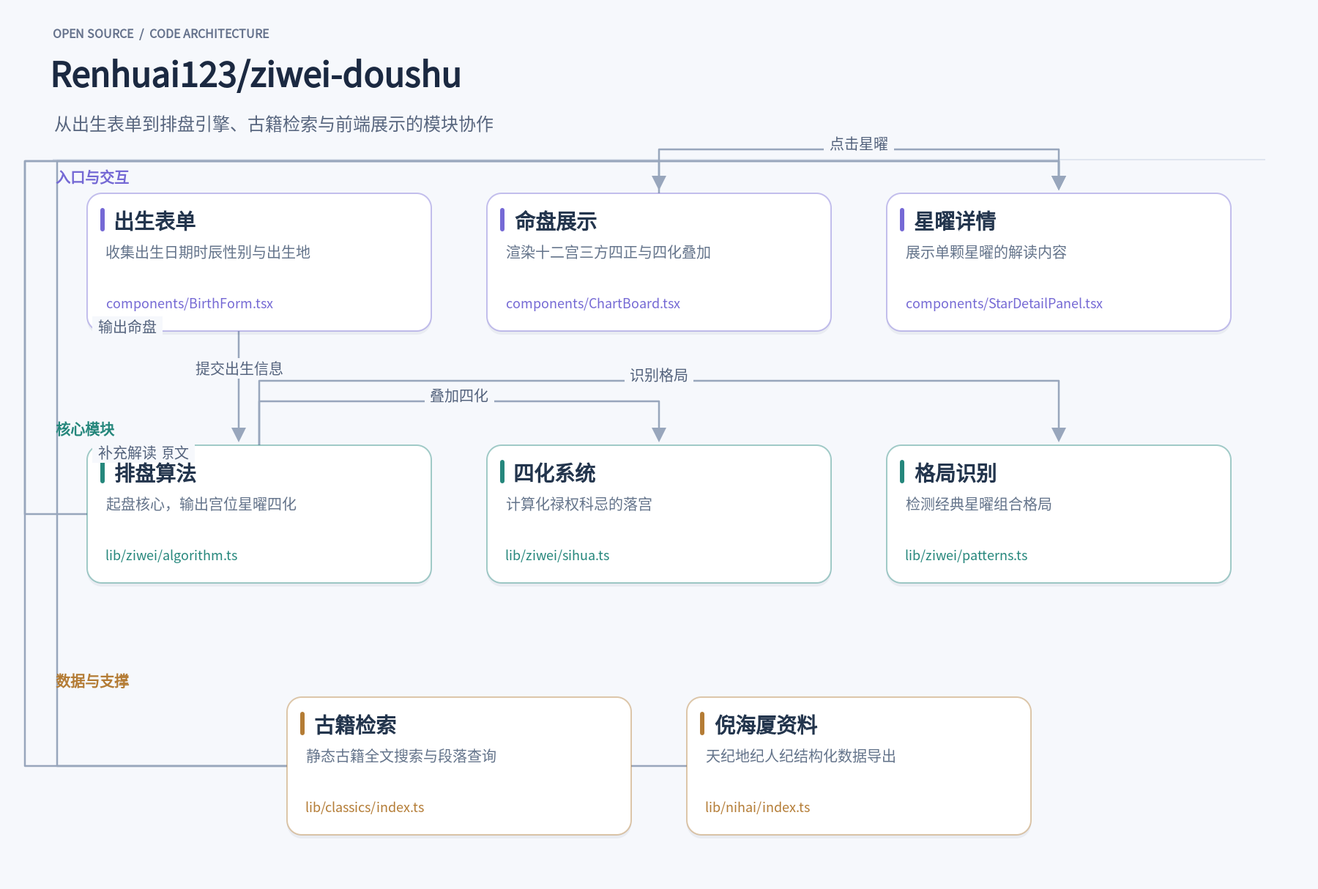
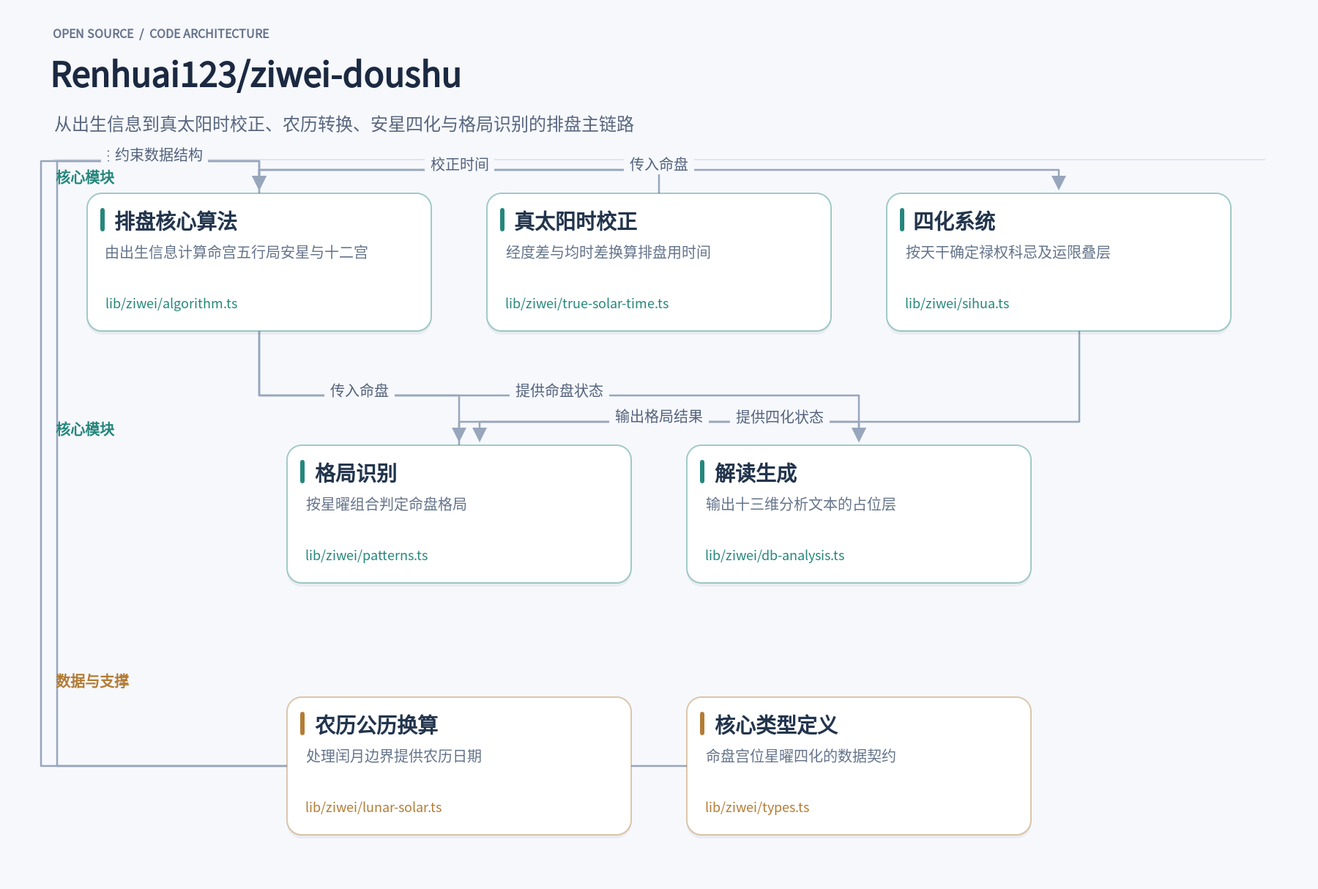
feat(post): apply reviewed daily blog workflow and PNG layout

diff --git a/src/content/posts/github-daily-2026-10-30.md b/src/content/posts/github-daily-2026-10-30.md
@@ -1,8 +1,8 @@
 ---
-title: "2026年10月值得留意的五个开源项目：记忆、代理与排盘"
+title: GitHub 每日开源精选 · 2026-10-30
 published: 2026-10-30
 draft: true
-description: 代理写代码越来越顺手，麻烦却转移到会话之外：关掉终端，上下文就断了；让模型做设计，它交出的界面像同一个模板刻出来的；想让 agent 去外部系统里办事，又不敢把浏览器和文件权限直接交出去。这一期挑的五个项目，分别在这些缝隙里做文章——有的把
+description: 介绍 claude-mem、OpenMausBot、impeccable、OpenBot、ziwei-doushu 五个开源项目，讲解实际用途、使用方法与代码结构。
 tags:
   - GitHub
   - 开源
@@ -13,116 +13,126 @@ lang: zh-CN
 author: Cyber先锋社
 ---
 
-代理写代码越来越顺手，麻烦却转移到会话之外：关掉终端，上下文就断了；让模型做设计，它交出的界面像同一个模板刻出来的；想让 agent 去外部系统里办事，又不敢把浏览器和文件权限直接交出去。这一期挑的五个项目，分别在这些缝隙里做文章——有的把会话压成可检索的记忆，有的给每个 bot 分一台独立虚拟机，有的用确定性规则挡住“AI 味”界面，有的把计算机操作放进审批网关，还有一个把紫微斗数的排盘算法完整开源。它们解决的问题不同，共同点是都把“模型之外的那层工程”摆到了台面上。
+今天翻到的五个项目，各自解决一个具体问题。claude-mem 把 agent 会话压缩成可检索记忆，下次启动自动注入上下文；OpenMausBot 把 Claude Code 和 Codex CLI 装进聊天侧栏，每个 bot 有独立人格、记忆和一台可远程操作的计算机；Impeccable 给编码 agent 补上 24 个设计命令和 62 条确定性规则，把 AI 界面的俗套挡在发布前；OpenBot 让每个 AI 同事拥有自己的电脑，所有动作先裁决后执行；ziwei-doushu 用 TypeScript 把紫微斗数排盘算清楚，从真太阳时到十二宫星曜与四化。它们不共享同一套理念，但都值得打开源码，看看内部模块怎样配合。
 
-## 1. claude-mem：把每次会话的工具调用压缩成可检索记忆，下次开工自动注入上下文
+## 1. claude-mem
 
-[thedotmack/claude-mem](https://github.com/thedotmack/claude-mem) · TypeScript · ★ 105,580 · 今日 +1,145 · Apache-2.0
+> 把 agent 会话压缩成可检索记忆，下次启动自动注入上下文
 
-你在 Claude Code 里调试一个跨多个文件的 bug，关掉终端去吃饭，回来重新打开会话，模型已经忘了刚才定位到哪个函数、试过哪些方案。claude-mem 想解决的就是这种断裂：它挂在会话的生命周期上，把工具调用、决策、bugfix 等观察记录下来，压缩成结构化记忆，下一次会话开始时再把相关片段注入回上下文。安装入口很直接，`npx claude-mem install` 会配置好插件和 hook，并启动一个本地 worker 服务。
+[thedotmack/claude-mem](https://github.com/thedotmack/claude-mem) · `TypeScript` · **105,580** stars · 今日 **+1,145** · `Apache-2.0`
 
-这套东西的核心是一个常驻的 worker。hook 在会话事件发生时把原始数据发给 worker，worker 负责落库、调用 LLM 做压缩摘要、生成向量索引，再通过 HTTP 接口把上下文提供给宿主。`src/integrations/harness-worker.ts` 里的 `createHarnessWorkerClient` 展示了这种协作方式：先请求 `/api/health`，只有连接被拒绝时才尝试拉起 worker，HTTP 层面的错误则直接抛出。这个区分很实用，避免把“服务在跑但返回 500”误判成“服务没启动”而重复拉起进程。
+你在 Claude Code 里刚排查完一个跨模块的 bug，关掉终端，第二天再开新会话，它完全不记得昨天改过哪些文件、为什么那样改。claude-mem 要解决的就是这个断片问题：它在会话进行中通过宿主 hook 捕获工具调用和用户消息，把原始事件压缩成结构化的观察与摘要，存进本地 SQLite，等下一次会话启动时再按项目检索出来，拼成一段上下文塞回给 agent。安装后由 `npx claude-mem install` 完成宿主接入，运行时可以选择本地 worker 模式或 server 模式。
 
-记忆的写入和读取是两条路径。写入侧由 hook 触发，把一次会话中的工具调用、文件读写、错误修复整理成 observation；读取侧则是一个 MCP 工具集，模型可以主动搜索历史记忆。`src/servers/corpus-worker-stream.ts` 处理的是长任务场景：构建或查询语料时，MCP 侧向 worker 发 SSE 请求，用 30 秒无 ping 判定 worker 失联，同时设 15 分钟绝对上限。它兼容旧版 worker 返回单次 JSON 的情况，通过 `content-type` 判断走哪条分支。
+捕获的起点是各个 hook handler。以 `src/cli/handlers/observation.ts` 为例，每次 PostToolUse 触发时，它先做几项过滤：递归的记忆工具调用直接跳过，项目不在跟踪范围就返回，子 agent 的观察在发出任何网络请求前就被丢弃，避免 fan-out 把 provider 配额耗光。通过过滤后，事件要么在 server 运行时下直接 POST 到 `/v1/events`，要么写进本地 spool 交给 worker 消费。这个 handler 本身被约束成纯函数，不直接写 stdout/stderr，错误由外层统一兜底成 no-op，保证 hook 不会把宿主卡死。
+
+会话初始化走 `src/cli/handlers/session-init.ts`。它先判断当前 prompt 是不是宿主自己的内部协议文本——Codex 的辅助线程、Grok Bot 的研究子 agent 简报、Qwen 的续写发送都会被识别并跳过，不写入假的用户轮次。真正的用户 prompt 会带着 cwd、项目键来源一起发给 `/api/sessions/init`，拿回 sessionDbId 和 promptNumber。如果配置里打开了 `CLAUDE_MEM_SEMANTIC_INJECT`，它还会用当前 prompt 去 `/api/context/semantic` 搜一次相关观察，把结果放进 `hookSpecificOutput.additionalContext` 返回给宿主；这个语义检索是开关控制的，不是每次会话都默认执行。
 
 ![thedotmack/claude-mem 代码结构](./images/github-daily-2026-10-30/01-claude-mem-architecture.png)
 
-多宿主适配是项目里花力气较多的部分。OpenClaw 的插件入口 `openclaw/src/index.ts` 没有依赖 Claude Code 的 hook 体系，而是注册 `before_prompt_build`、`after_tool_call`、`session_start` 等事件回调，在提示构建前把记忆拼进 `prependContext`。同一个文件里还定义了 SSE 观察流和消息渠道推送，说明它把“记忆采集”和“记忆消费”拆成了可独立接入的两层，宿主只要能提供事件和消息通道，就能接上。
+压缩环节在 server 运行时里由 `src/server/generation/ProviderObservationGenerator.ts` 承担。它是 BullMQ 的 worker processor，每次取到 job 后先按 id 重新加载 Postgres 里的 outbox 行，比对 team/project 与 payload 是否一致，不一致就审计并标记失败，不信任队列里携带的租户信息。随后检查发起 job 的 API key 是否已被吊销，再把 outbox 从 queued 锁到 processing，调用 provider 生成结构化响应，交给 `processGeneratedResponse` 在一个事务里落库、建关联、推进 outbox 状态。provider 调用有超时上限，超时按 transient 处理并走重试路径，但会受每 job 付费发送次数约束。
 
-安装器本身也承担了运行时选择。`src/npx-cli/index.ts` 把 `install`、`repair`、`prune`、`update` 以及 worker 的启停都收在一个 CLI 里，`--provider` 可以选 claude、codex、gemini、openrouter 或 host。host 模式对应本地已有的 OpenAI 兼容观察器，`src/npx-cli/cmem-memory-credentials.ts` 里的 `probeHostObserverPort` 会探测 `/v1/models` 和 `/v1/chat/completions`，把端口状态分成 observer、occupied、free 三种，避免把别的服务误认成观察器。
+本地 worker 路径的数据落在 SQLite，由 `src/services/sqlite/SessionStore.ts` 管理。这个类在构造时先做 schema 版本兼容检查，拒绝比当前二进制更新的库，然后跑一长串幂等的迁移方法：加列、建索引、补触发器、修外键。观察的文件路径被单独抽到 `observation_files` 表，按 path 和 observation_id 建索引，这样按文件反查观察是索引查找而不是对 JSON 数组做全表 `json_each`。同一个库里还能看到 `sync_entity_heads`、`sync_content_outbox` 这些同步账本表，说明本地存储在写入时也记录了可同步的变更。
 
-值得借鉴的是它对“记忆”这件事的工程化处理。观察数据带类型（decision、bugfix、security_alert 等），有标题、事实、概念、读写文件列表，还有项目归属和会话编号。这些字段让后续检索不必只靠全文匹配，也给压缩摘要提供了稳定的输入结构。worker 把 LLM 调用、向量索引和 SQLite 存储放在同一个进程边界内，hook 侧只做轻量转发，减少了会话结束时的阻塞感。
+上下文注入侧由 `src/services/context/ContextBuilder.ts` 和 `ObservationCompiler.ts` 配合。Compiler 负责查询：按项目键取最新观察和摘要，项目键多的时候分批查询再合并去重，避免一条 `IN` 查询让 SQLite 排序全部匹配行。Builder 拿到行之后依次渲染 header、时间线、最近摘要、上一条消息和 footer，再交给 `fitContextToBudget` 按字符预算裁剪。观察者健康告警是在预算测量之内渲染的，不是事后追加，否则刚裁到上限的块会被警告顶出去，反而触发整块替换的兜底逻辑。
 
-另一处设计是凭据与配置的优先级。`resolveCmemMemoryCredentials` 按“本次投递、暂存、已配置”的顺序解析 cmem 网关密钥，并区分 `clearFallback` 是否应该清除降级标记。重跑安装不会被当成密钥恢复可用的证据，这种保守处理在多环境切换时能减少误判。配置读取也兼顾了 `settings.json` 的嵌套 `env` 和顶层两种形态，环境变量始终优先。
+对 agent 暴露的检索接口在 `src/servers/mcp-server.ts`。它启动一个 MCP stdio server，把 console 输出重定向到日志以免污染协议流，然后按运行时把工具调用分派到 worker HTTP 或 server `/v1` 客户端。worker 模式下有 `search`、`context` 这类工具，server 模式下有 `observation_add`、`observation_record_event`、`observation_search`、`observation_context`，后者要求 `CLAUDE_MEM_RUNTIME=server` 且配置完整，否则返回明确的错误文本而不是静默失败。worker 连接被拒时会尝试拉起一次再重发，server 模式下则不会自动启动 worker。
 
-从代码组织看，claude-mem 把入口、worker 服务和宿主适配分得比较清楚：CLI 负责安装与运维，worker 负责采集、压缩和检索，各宿主插件只做事件转发和上下文注入。对想给自己的 agent 加持久记忆的开发者，这套分层比单个大而全的模块更容易替换其中一环，比如把 LLM 压缩换成别的模型，或者把存储从本地 SQLite 换到远端服务。
+这套设计里有几处值得借鉴。hook handler 被要求保持纯函数、错误统一降级，让记忆系统出问题时不会拖垮宿主会话；server 侧的生成器把队列 payload 当作不可信输入，每次从数据库重载权威行并校验作用域，把多租户隔离做在执行边界而不是入队边界；上下文预算把告警和正文放在同一次测量里，避免裁剪后又被追加内容顶破上限。这些约束都写在代码注释里，读源码时能直接看到它们对应的具体故障场景。
 
-## 2. OpenMausBot：把 Claude、Codex 这类本地 agent 装进聊天应用，每个 bot 都有自己的虚拟机
+## 2. OpenMausBot
 
-[milind-soni/OpenMausBot](https://github.com/milind-soni/OpenMausBot) · TypeScript · ★ 8,111 · 今日 +899 · Apache-2.0
+> 把 Claude、Codex 装进聊天侧栏，每个 bot 都有独立人格、记忆和一台可远程操作的计算机
 
-打开 OpenMausBot，侧边栏里每一行都是一个真实的 agent 进程，而不是一个套了壳的聊天接口。你可以像对待联系人一样给某个 bot 起名字、挑模型、配性格，然后发消息让它干活。它在本地跑 Claude 或 Codex CLI，用你机器上已有的登录和订阅，不需要再注册新账号，也没有中间代理转发你的对话。桌面端由 Electron 打包，macOS、Windows、Ubuntu 都有安装包，数据落在 `~/.openmausbot` 目录里。
+[milind-soni/OpenMausBot](https://github.com/milind-soni/OpenMausBot) · `TypeScript` · **8,111** stars · 今日 **+899** · `Apache-2.0`
 
-真正让这些 bot 有“手”的，是它们各自可以挂载一台计算机。项目提供三种形态：云端 Linux 桌面、隔离的本地虚拟机，以及在明确授权后接管你自己的电脑。macOS 和 Ubuntu Xorg 下可以开启宿主机控制，Ubuntu Wayland 的支持因为输入注入问题暂时关闭。此外通过 Composio 接入 500 多个应用，bot 可以替你操作日历、邮件这类外部服务。这条链路的关键在于隔离边界：bot 拿到的是一个受限的执行环境，而不是你的整个用户会话。
+在 OpenMausBot 里，侧栏中的每个 bot 都不是一个套壳聊天窗口，而是一个真实的 agent 进程：Claude Code 或 Codex CLI 在本地运行，拥有独立的人格、模型、记忆、已连接应用和一台计算机。用户像给联系人发消息一样发一段文字或附件，harness 服务器把消息路由到对应 bot 的引擎驱动，agent 执行回合、调用工具，敏感操作以卡片形式回到聊天界面等待审批。整个应用是 Electron 桌面端加一个监听 127.0.0.1 的本地服务器，转录、密钥和事件都落在 ~/.openmausbot，而不是云端。
 
-服务端入口在 `server/cli.ts`，一个 `openmausbot` 命令就能把 harness 起在 `127.0.0.1` 上，默认端口 8799。子命令覆盖了 setup、serve、pair、sessions、status 等场景，`serve` 还支持 `--tailscale`、`--tunnel`、`--domain` 三种对外暴露方式，分别对应 Tailscale 内网、Cloudflare 隧道和自带 Caddy 的域名 HTTPS。参数解析和命令分发写在一起，`parseArgs` 把命令行和环境变量（如 `OMB_PORT`、`OMB_DATA_DIR`）合并成一份 `CliOptions`，后续逻辑只认这个结构，命令行细节不会渗进核心模块。
+消息进入后，`server/index.ts` 是本地 harness 的组装点。它建立 HTTP/SSE 路由，加载配置，初始化会话、记忆、计算机控制、MCP 注册表、审批模式等子系统，再把一次发送交给 coordinator 或 `routeDirectTurn`。这个文件很长，但结构上就是“请求进来、找到 bot、组织上下文、调用驱动、把事件写回”的入口。bot 的转录与消息索引由 `server/message-db.ts` 维护，附件、头像和生成图片各有独立模块，聊天界面通过 SSE 接收流式事件。
+
+真正决定一次 agent 回合能做什么的，是 `server/agents-turn.ts` 里的纯函数。它把对话的事实和这一回合的授权分开描述，再拼成一组 OMB_* 环境变量交给引擎：bot 是否启用记忆、是否允许共享计算机、是否在房间里、是否可做技能创作、是否可挑选计算机，都变成显式的开关。代码里 `directTurnKind` 还会区分这条消息来自人、例行任务、webhook、交接还是续跑，拒绝文案据此变化。这样做的好处是工具面在一段对话里保持稳定，避免因为工具增减导致提示缓存整体失效。
 
 ![milind-soni/OpenMausBot 代码结构](./images/github-daily-2026-10-30/02-openmausbot-architecture.png)
 
-前端入口 `src/main.tsx` 做的事比一般 React 应用多。它在首屏渲染前先落定主题、字体、聊天宽度这些偏好，然后根据 `location.pathname` 决定挂哪个根组件：`/home` 是主屏，`/rail` 是 Electron 的侧边栏窗口（背景设为透明），`/pair` 是配对页，`/desktop-viewer` 是远程桌面视图。会话状态由一个 `readSessionState()` 统一裁决，未认证、loopback 但信任级别为 service、正常登录各有分支。这种把路由判断前置到挂载之前的写法，避免了先渲染主界面再跳登录页的闪烁。
+引擎驱动是“真实 agent”的落点。`server/drivers/claude.ts` 用 stream-json 双向通信，每个线程保留一个 Claude CLI 进程，prompt 走 stdin，回合由 CLI 自己的 result 帧收束；它按 CLI 版本决定是否传 `--autocompact`、`--setting-sources`、`--strict-mcp-config` 这类参数，并把权限请求和提问抽象成 Ask 结构，等待用户回答或超时拒绝。`server/drivers/codex.ts` 走 app-server 的 JSON-RPC，完成信号是 `turn/completed`，审批以 server→client 请求到达，resumeCursor 就是 Codex 的线程 id。两个驱动都把工具进度、错误和用量转成统一的 RuntimeEvent，界面因此不需要理解每个 CLI 的私有协议。
 
-bot 之间要协作，就需要一套受控的工具调用。`server/agent-tool-policy.ts` 里维护了一份只读工具白名单，`list_bots`、`list_threads`、`session_search`、`skills_list` 等十二个名字被显式列出，只有它们会拿到 `readOnlyHint: true` 这组注解。`isReadOnlyAgentTool` 只做精确匹配，不认前缀、不认大小写、也不认第三方 MCP 自己声明的注解。配套测试里专门列了一串反例：`mcp__agents__list_bots`、`agents.list_bots`、`LIST_BOTS` 全部判为不可读。名字相近就放行，是这类权限系统最常见的漏洞来源。
+bot 的“手”由计算机层提供。`server/bot-box/box.ts` 在启动时探测宿主机是否具备 bubblewrap，若具备就打开出口网关、harness 网关和凭据代理三个 unix socket，并把每次 spawn 翻译成 bwrap 参数；box 关闭时，命令、参数和环境原样透传，非 Cloud 主机行为不变。在隔离网络且 broker 开启时，环境里的 API key 会被换成按进程签发、进程退出即撤销的令牌，同时 seccomp 过滤器通过文件描述符交给子进程。`server/computer-control.ts` 则管理“谁在操作这台计算机”：bot 只能请求帮助，只有人能取得和释放控制权，人持有期间 bot 的动作直接被拒绝而不是排队，避免一次迟到的点击落在别的元素上。
 
-当 bot 需要跑在一台远程机器上时，`connector/src/agent.ts` 负责维持那条连接。它从 connector 主动向 Admin 发起 WebSocket，带上 Bearer token，断线后按 1 秒、2 秒、4 秒的指数退避重连，上限一分钟，并且每次在 0.5 到 1.5 倍之间抖动，避免大量服务器同时重连造成尖峰。作业从这条连接进来，结果也从这条连接回去；未被确认的回复留在 `unacked` 里，下次连上会重发，直到 Admin 回一个 `ack`。连接稳定超过 60 秒才把重试计数清零，否则一次短暂成功就会掩盖持续的故障。
+记忆不是一段不断增长的对话历史，而是 bot 工作区里的文件。`server/memory-store.ts` 只允许三种路径：`MEMORY.md`、`memory/<topic>.md` 和 `memory/log/<day>.md`，其他路径一律拒绝，防止任意文件读取。写入是原子的、权限 0600，文本先经过 `redactSecretsInText` 脱敏；带 `expectedHash` 的保存会在文件已被别人改过时返回 409，让调用方先看到新版本。单文件超过 `MEMORY_FILE_MAX_BYTES` 会返回 413，提示把长笔记拆到主题文件。索引的容量按行数和字节数双重截断，读取和展示用同一套规则，避免“看到的内容”和“加载的内容”不一致。
 
-消息处理里有两处细节值得借鉴。一是幂等：同一个 job id 如果已经在跑，重复投递会被直接丢弃；如果已经跑完，就把缓存的结果再发一遍，而不是重新执行。二是错误回复也走同一条确认通道，`checkJob` 校验失败时如果还能拿到 id，就回一个带错误码的 reply，让对端知道这条消息被拒了，而不是静默吞掉。心跳由 `startBeat` 定时触发，把状态通过 `status` 回调写回本地状态记录，连接、未授权、最后错误时间都能在 `status` 命令里看到。
+审批回流是这套架构里容易被忽略的一环。Claude 驱动的 `Ask` 把权限请求和提问变成可回答的对象，Codex 驱动把审批当作 JSON-RPC 的 server→client 请求处理；两者最终都落到聊天界面上的卡片，用户批准后驱动继续执行，拒绝或超时则让 agent 跳过该动作并收尾。`server/computer-control.ts` 里的求助请求也绑定到具体的消息卡片，只有对应的登录卡片被处理后才算结案。审批模式（手动、自动、完全访问）在共享的 `approval-mode.ts` 中定义，驱动和 harness 都按同一套语义判断。
 
-整体看，这个项目的结构是围绕“一个本地 harness 管住所有 agent 进程”来组织的：CLI 负责起服务和配对，前端按路由分流到主界面或配对页，工具策略层收窄 agent 能碰的东西，connector 把远程执行能力接进来。几个模块之间的契约都比较窄——`CliOptions`、`JobReply`、只读工具名集合——这让每一层都能单独测试。想做一个本地优先、多 agent 协作的桌面应用，这套分层和它对权限、重连、幂等的处理方式，是可以直接拿来参照的。源码在 GitHub 上以 Apache-2.0 发布。
+值得借鉴的设计有三处。第一，把“对话事实”和“回合授权”拆成两层，用环境变量显式传递能力边界，而不是让每个工具在运行时猜。第二，引擎驱动只负责进程、协议和事件翻译，审批、记忆、计算机控制都在驱动之外，换一个 CLI 不需要重写这些子系统。第三，隔离层在关闭时完全透传，开启时才介入，这让同一份代码既能跑在普通开发机上，也能跑在需要强隔离的 Cloud 主机上。对于想构建多 agent 桌面应用的团队，这种“入口薄、驱动专、能力显式”的分层比把所有逻辑塞进一个 agent 循环更容易维护。
 
-## 3. impeccable：给编码代理装上设计词汇，24 个命令加 62 条确定性规则挡住 AI 味界面
+## 3. impeccable
 
-[pbakaus/impeccable](https://github.com/pbakaus/impeccable) · Rust · ★ 96,562 · 今日 +2,299 · Apache-2.0
+> 给编码 Agent 装上 24 个设计命令和 62 条确定性规则，把 AI 界面的俗套挡在发布前
 
-让代理写一个落地页，它常常交出同一套东西：Inter 字体、紫到蓝的渐变、卡片套卡片、彩色底上的灰字、每个标题上方一块圆角图标砖。impeccable 想解决的问题很具体——把“让它更抓眼”这类模糊指令换成代理能执行的词汇，并在代码合入前把这类套路拦下来。项目以 npm 包分发，在项目根目录跑 `npx impeccable install`，重载编码工具后执行 `/impeccable init`（Codex 里用 `$impeccable init`）。命令要带上目标才有效果，比如 `/impeccable critique the pricing cards`，单个区块被仔细审视，比整页扫一眼更容易得到可用结果。
+[pbakaus/impeccable](https://github.com/pbakaus/impeccable) · `Rust` · **96,562** stars · 今日 **+2,299** · `Apache-2.0`
 
-24 个命令分成几组。Steer 组负责方向：`bolder` 放大过于保守的设计，`quieter` 压低过吵的页面，`distill` 删掉页面不需要的东西，`colorize`、`typeset`、`layout` 分别处理配色、字体层级和间距节奏，`animate`、`delight`、`overdrive` 从过渡反馈一路走到着色器与弹簧物理。Review 组里 `critique` 按可用性启发式打分并排出修复顺序，`audit` 检查无障碍、性能、主题和响应式，发现项按 P0 到 P3 分级。Finish 组的 `polish`、`harden`、`clarify`、`adapt`、`optimize`、`onboard` 覆盖上线前最后一轮打磨。命令可以固定，`/impeccable pin audit` 之后直接用 `/audit`。
+让编码 Agent 做一个落地页，十有八九会得到同一套东西：Inter 字体、紫蓝渐变、卡片套卡片、彩色底上的灰字、每个标题上方一个圆角图标块。这些不是随机失误，而是模型在缺乏具体指令时反复收敛到的默认审美。Impeccable 的做法是给 Agent 补上一套设计词汇：用 `bolder`、`quieter`、`polish`、`critique` 这类命令把模糊的“让它好看点”拆成可执行的动作，再用一套不依赖大模型的规则引擎把俗套和可测量的质量问题抓出来。
 
-上下文靠两个文件维持。`init` 读代码，只问它推不出来的事——产品给谁用、要做什么、有哪些约束——然后写 `PRODUCT.md`，后续每条命令都读它。`document` 把现有视觉体系写进 `DESIGN.md`，让改动留在品牌轨道上。这套设计值得借鉴的地方在于：把“设计品味”从提示词里抽出来，变成项目里可版本化的文件，代理每次开工先读同一份事实，而不是靠对话历史里零散的形容词。
+安装从项目根目录的 `npx impeccable install` 开始，之后在 Agent 里运行 `/impeccable init`。init 会先扫一遍代码库，只问那些从仓库里推不出来的事——产品给谁用、要完成什么、有什么约束——然后写成 `PRODUCT.md`。这份文件是后续所有命令的共同输入：`critique` 拿它判断设计是否贴合产品，`polish` 拿它决定哪些细节值得收尾。再跑一次 `document`，把现有的视觉体系沉淀成 `DESIGN.md`，改动就不会偏离品牌。
+
+命令的入口在 `SKILL.md` 里，一张 24 行的表定义了每个命令属于 Build、Evaluate、Refine、Enhance、Fix、Iterate 中的哪一类，以及该加载哪份 playbook。用户输入 `/impeccable critique the pricing cards` 时，路由先解析出命令和目标，再读取对应的 `reference/critique.md`。目标越窄效果越好，一个区块被仔细看过，胜过整页扫一眼。常用的命令可以用 `pin` 固定成独立快捷键，比如把 `audit` 变成 `/audit`。
 
 ![pbakaus/impeccable 代码结构](./images/github-daily-2026-10-30/03-impeccable-architecture.png)
 
-检测器是项目里最硬的部分。62 条确定性规则，不用 LLM，也不需要 API key。它有三种跑法：装进代理后，设计钩子扫描代理改过的每个 UI 文件，在代理宣布完成前把发现项递回去——README 说大部分套路是在这里被抓住的，因为不装钩子，检测器只在有人想起来时才跑；也可以在 CI 或终端里跑 `npx impeccable detect src/`，或对渲染后的页面跑 `npx impeccable detect https://example.com`，后者用本机已装的 Chrome 或 Edge。
+`critique` 的 playbook 把评审拆成两条互不可见的评估线：A 线由设计视角读源码、看渲染结果，按 Nielsen 十条启发式逐项打分；B 线跑确定性检测器并做浏览器可视化。两条线各自在隔离子 Agent 里跑完，才在父上下文里汇合，避免检测器的输出先入为主地锚定人的判断。最终报告里，启发式得分表、设计特异性判断、按 P0 到 P3 排序的问题清单和具体到元素的修复建议会一起给出，最后才问用户下一步想改哪里。
 
-Rust 工作区是引擎本体，`Cargo.toml` 里 `cargo build --release -p impeccable` 产出的二进制由启动脚本调用。真正的入口是 `crates/cli/src/main.rs`，它只做一件事：把每个子命令当成一个动词路由出去，动词 crate 各自暴露 `run(args, io) -> i32` 返回退出码，自己从不调 `std::process::exit`，退出码和流刷新统一在这一个文件里决定。`detect`、`ignores`、`skills`、`context`、`critique-storage`、`hook`、`live` 等都在这个 match 里分派；以路径、URL 或 flag 开头的第一个参数会被当作检测目标，对应 `npx impeccable src/` 这种简写。
+检测器是这套工具里最不依赖模型的部分。`crates/detect/src/lib.rs` 把扫描编排成两条引擎接缝：`HtmlEngine` 处理静态 HTML/CSS，`UrlEngine` 处理渲染后的页面，而 detect crate 本身不依赖这两个实现，由 CLI 二进制在启动时注入。规则命中后统一产出 `Finding` 结构，字段顺序与 JS 版本严格一致，严重级别决定它是否带 `advisory: true` 标记。62 条规则覆盖渐变文字、嵌套卡片、过窄内边距、跳级标题这类问题，不需要 API key，在 CI 里跑和在本机跑结果一样。
 
-URL 检测的路径值得细看。`crates/browser/src/snapshot_engine.rs` 的注释说明了演进：早期把 WebAssembly 检测包注入页面、在页面内跑规则，需要 `Page.setBypassCSP` 才能让页面的 CSP 不拒绝 `WebAssembly.Module`；现在只注入纯 JS 的快照生产者 `browser-bundle/15-snapshot.js`，把页面序列化成 JSON，规则核心在本进程里对 `SnapshotDom` 原生执行。严格 CSP 的站点因此可以在不绕过 CSP 的情况下被扫描，页面里被拦下的内联脚本仍然被拦。快照答不了的两件事走 CDP 补：命中测试由 `resolve_needs` 向实时页面取点后重跑到不动点，视觉对比度的图片加载与像素读取通过 `__impIO` 完成。
+`live` 模式走的是另一条路径。`crates/live/src/live_server.rs` 起一个本地 HTTP 服务，默认从 8400 端口往上找空位，向浏览器注入 `/live.js`，提供 SSE 事件流、Agent 长轮询、截图暂存和手动文案编辑的提交/丢弃接口。用户在页面上选中元素、切换几个变体，接受其中一个，改动就写回源码。服务端对并发连接设了上限，启动时会回滚上次中断留下的未完成事务，也会清理过期的接受回执。它只改本地工作副本，不适合注入已部署的站点。
 
-快照之后还有几何重测的取舍。`recapture_geometry` 只重新测量滚动相关的几何——`getBoundingClientRect`、直接文本矩形、`scrollX`/`scrollY`——再补到基线快照的克隆上。因为 `scrollIntoView` 只移动页面，DOM 树、属性、计算样式、媒体和关键帧都不变，而视觉路径读的字段里只有这些是相对视口的，所以一次约 80 KB 的载荷替代了约 1.2 MB 的完整重拍，省掉了 `getComputedStyle` 全量扫描。元素 id 按文档顺序分配，滚动后仍然指向同一批元素，页面侧的 `__impCap` 和 `__impIO` 继续有效。
+值得借鉴的是命令与检测的分层方式。命令层是写给 Agent 读的自然语言 playbook，负责判断和取舍；检测层是确定性的规则引擎，负责给出可复现的证据。两者在 `critique` 里被强制隔离，在钩子里又被串起来：Agent 每次编辑 UI 文件后，设计钩子自动跑检测并把发现回传，在 Agent 宣布完成之前就把问题摆到桌面上。这种“判断归判断、证据归证据”的切分，比让一个模型既当作者又当审稿人更可靠。
 
-评审结果需要落盘，`crates/context/src/critique_storage.rs` 处理这件事。快照写在项目根下的 `.impeccable/critique` 目录，文件名是时间戳加目标 slug，正文带 frontmatter，记录目标身份、目标路径和 `closed` 标记。目标身份对 URL 取 origin 加去掉尾部斜杠的路径，对本地文件取解析后的绝对路径，再配一个 sha256 指纹，用来判断两次评审是不是同一个对象。`read_newest_snapshot_for_identity` 按身份过滤后取最新一份，`close_snapshot` 把结论标记为已关闭。live 模式则把迭代搬回浏览器：打开运行中的开发服务器，叠一层覆盖层，选中元素、挑一个方向，变体就地热替换，接受后写回源码，支持 Vite、Next、SvelteKit、Astro、Nuxt 和纯 HTML；它只改本地检出，应用文案修改时会以你的权限运行 `package.json` 里可选的 `impeccable:manual-edit-validate` 脚本。npm 启动器 `cli/bin/cli.js` 也值得一提：它按 `$IMPECCABLE_BIN`、平台可选依赖、版本化用户缓存、下载的顺序找二进制，缓存和下载都要对 `engine-checksums.txt` 校验，没有记录摘要就拒绝下载，哈希不匹配就不写缓存。
+另一处设计是上下文文件的单一权威。`PRODUCT.md` 记录产品事实，`DESIGN.md` 记录视觉体系，`init` 明确不碰视觉方向，`document` 只做记录不做发明。`impeccable context` 每次会话读一次，把目标文件、对应的 surface brief 和原生平台指引一起加载进来。当上下文过期时，系统只报告 `CONTEXT_STALE`，不会顺手在某个设计任务里悄悄修复——漂移被当成需要用户决定的事，而不是可以自动抹平的副作用。
 
-## 4. OpenBot：每个 AI 同事独享一台带浏览器和文件的计算机，动作先决策后留痕
+## 4. OpenBot
 
-[CopilotKit/OpenBot](https://github.com/CopilotKit/OpenBot) · TypeScript · ★ 8,532 · 今日 +707 · MIT
+> 让每个 AI 同事拥有自己的电脑，所有动作先裁决后执行
 
-你在聊天框里让一位“同事”去供应商门户核对发票，它没有直接调 API，而是打开自己的 Chromium，用独立登录态进入页面，翻到订单行，把结果截图发回来。整个过程里，它想点“提交付款”时被拦下，等你在审批卡片上点同意才继续。OpenBot 把这种协作做成了可克隆的模板：每个 Bot 分到一台容器化计算机，浏览器、文件、工具都在里面，而所有对计算机的操作都先经过一个网关，决定能不能做，做完再落一条审计记录。
+[CopilotKit/OpenBot](https://github.com/CopilotKit/OpenBot) · `TypeScript` · **8,532** stars · 今日 **+707** · `MIT`
 
-它要解决的核心问题是授权边界。普通 agent 拿到工具就一路执行，出了事只能翻日志；OpenBot 把每个工具调用都变成一次“请求—决策—执行—记录”的往返。网关先解析目标是谁的计算机、哪个文件、哪个 MCP 服务，再对照策略判断放行还是拒绝，拒绝时直接说出触犯了哪条规则。这样浏览器动作、文件读写、外部服务调用走同一条路径，策略只需要写一遍。
+你在频道里问一位 AI 同事“帮我查一下上季度的报销单有没有超预算”，它没有直接回答，而是打开自己的浏览器，登录财务系统，翻到对应页面，读取表格，再回到频道里给你一段带引用的结论。整个过程里，它点过的每个按钮、填过的每个字段、读过的每个文件，都先经过一道网关：网关把模型说的“点那个提交按钮”翻译成页面上真实存在的元素，对照你配置的规则判断能不能做，写下一行审计，然后才真正动手。OpenBot 想做的不是又一个聊天框，而是把这套“先决定、后执行、再记录”的流程变成智能体使用工具的唯一通道。
 
-接入一个 agent 的成本被压到协议层。任何说 AG-UI 的端点都能成为 Bot，`agent-langgraph/src/index.ts` 就是典型：它启动一个 Bun 服务，从 `shared/model-providers` 读出 provider 和 model，按名字构造 `ChatAnthropic`、`ChatGoogleGenerativeAI` 或 `ChatOpenAI`，再把工具绑定到模型上。模型选择、密钥变量、base URL 都来自同一份注册表，换供应商只是改配置，流式循环和消息翻译交给框架集成维护。
+这个项目的起点是一个很实际的问题：让智能体连上浏览器和文件并不难，难的是让它连上之后你还敢让它碰真实系统。大多数框架把工具直接交给模型，模型说调用就调用，出了问题只能事后翻日志。OpenBot 把工具调用收回到服务端，在 `server/src/computer/gateway.ts` 里，每个动作按固定顺序走三步：先把调用方传来的不透明 ref 解析成服务端自己抓取的快照里真实指向的元素，再问策略，最后无论允许还是拒绝都先写审计行，然后才转发给那台电脑。注释里说得很直白：一个基于模型自报标签做决定的网关是表演，“永不点击提交”只要把按钮改名成“继续”就能绕过。
+
+策略本身放在 `server/src/computer/policy.ts`，用 CEL 表达式而不是规则表格。原因写在文件开头：公司想要的边界往往是一句话，“不要在我们域名之外的页面上点任何写着提交的东西”，表格只能表达设计者想到的形状，表达式语言能表达使用者想到的那一条。规则分 `deny` 和 `allow` 两组，deny 优先，空策略默认拒绝，表达式写错也按拒绝处理。还有一个 `dry-run` 模式，规则照常判定、照常记录，但不真的拦，让管理员先拿真实流量试规则、看审计，再切到 `enforce`。这个设计解决的是治理功能最常见的死法：没人敢打开。
 
 ![CopilotKit/OpenBot 代码结构](./images/github-daily-2026-10-30/04-openbot-architecture.png)
 
-LangGraph 适配里有个细节值得看：工具循环现在跑在 Bot 进程内，而不是浏览器里。`buildGraph` 建了一个 `answer` 节点和一个 `tools` 节点，模型发出工具调用后，只有属于“部署自己的工具”（由 `openbotDeploymentTools` 标记）才会真正执行，执行方式是 `callTool` 把请求 POST 回 `OPENBOT_TOOL_URL`，带上部署签发的 `openbotRun` 断言。凡是面向前端渲染的组件或需要人回答的决策，`callsTheSurface` 判定后直接结束本轮，由界面画出来或等人点，下一轮再带着结果继续。这样无人值守的定时任务和嵌入场景才成立。
+光有裁决还不够，被允许的动作得有个地方落。`server/src/computer/supervisor.ts` 负责向容器监督进程要一台电脑：每个人一个容器，他用的所有 Bot 都跑在上面；隔离的 Bot 则单独一个。服务端自己不碰 Docker，只按“这是谁的电脑”发四个动词，地址由监督进程决定，因为只有它知道容器是发布在端口上还是坐在共享网络里。电脑被重置后地址会变，所以服务端不再持有地址，而是每次动作前问一次。文件里还处理了一个细节：`localhost` 在不同运行时解析到不同协议栈，所以默认用 `127.0.0.1` 拼端口，避免“明明在监听却连不上”。
 
-计算机这一侧由 `agent-computer` 承担。`src/authorisation.ts` 是浏览器进程前面的第一道门：它用常量时间比较校验 `x-openbot-computer-token`，WebSocket 流因为不能设升级头，额外接受查询参数里的 token；`/health` 是唯一免鉴权路径，编排器靠它探活。同一个文件里还有一张 `ACTING_PATHS` 清单，列出 `/navigate`、`/click`、`/type`、`/exec`、`/files/write` 等真正会动计算机的路径，人接管方向盘时这些一律拒绝，而 `/files/read` 和 `/files/list` 保持开放，让被停下的 Bot 还能读自己的笔记解释刚才在做什么。
+审计不是事后补的报告，而是动作路径的一部分。`server/src/audit.ts` 定义了很长一串事件类型，浏览器动作分 `action_allowed`、`action_refused`、`action_failed`、`action_stopped` 四种，因为“允许了”和“发生了”是两件事，把用户按停止也算进失败会报告出一台坏掉的电脑。人接管浏览器记录成一段时间而不是每一次点击，因为调查者想知道的是“这期间有人在开”，不是把人的每个动作也埋进日志。敏感字段在写入前被一张键名表挡掉，token、密码、工具参数和结果都不进审计。
 
-`src/action-barrier.ts` 则管住“正在执行的动作”。它不排队也不重放：`enter()` 同步放行并返回释放函数，`close()` 之后新动作直接被拒，`drain(timeoutMs)` 等到活跃计数归零才让人接管，超时就报错说还有动作没结束。这个设计让“人接管”不是一句口号——要么等当前动作收尾，要么明确告诉用户为什么接不了。审批不是事后告警，而是执行路径上的一个节点，规则本身在 `app/src/lib/boundaries/rules.ts` 里描述，团队可以按 Bot 或按工具粒度收紧。
+接入外部智能体的入口在 `server/src/agents/endpoint.ts`。任何说 AG-UI 的端点都能注册成一位同事，但注册时给的 URL 会被这个服务端在每一轮里 POST，这就是典型的 SSRF 形状：不检查的话，`http://169.254.169.254/` 也能注册成“智能体”，运行时替用户去取云凭据。这里的做法是复用浏览导航的目标检查，先拒永不许可的地址，再看是否允许私有网络，并且允许按主机名逐个点名放行——公司自己的智能体确实住在内网，让人关掉整个私有网络开关是最糟的建议。重定向也逐跳检查，跨主机时把凭据和运行断言从请求里剥掉。
 
-浏览器怎么启动由 `src/browser-runtime.ts` 决定，它把后端、通道、有头无头、虚拟显示和是否允许 `exec` 收成一个 `BrowserRuntime` 对象。默认 `managed` 后端在 Linux 上跑有头 Chromium，窗口送进容器内的 X server，外面看不到，但 Cloudflare 一类挑战不会因为 `HeadlessChrome` 标记而一眼识破；开发者在 Mac 或 Windows 上直接跑则保持无头，免得桌面弹窗。`local-chrome` 后端强制有头并指向 `127.0.0.1`，同时关掉 `exec`，因为那是人自己的 Chrome。`src/recorder.ts` 处理另一件容易漏的事：人自己的浏览器打开时必须已经带上 OpenBot Recorder，它在每次打开前重新读 `OPENBOT_RECORDER_DIR` 下的 `manifest.json`，检查 Manifest V3、service worker 文件存在、`key` 字段非空，再用 `extensionIdFromKey` 从公钥 DER 算出固定扩展 ID，这样原生消息宿主和服务端白名单认的是同一个 ID，不会随目录路径漂移。
+频道这一层在 `server/src/channels/routes.ts`，它把“人发消息”变成“某一轮跑起来”。这里能看到几个被真实并发逼出来的设计：频道列表用键集分页，因为侧边栏曾经每次渲染都拉全部频道，而频道只增不减；`direct` 用 PostgreSQL 的咨询锁做 find-or-create，因为两次投递同时到达时，各自没找到就各自建了一个，用户会看到两个 Knowledge 频道、答案分在两边。忙碌状态只广播不落表，因为“正在跑”是一个瞬间而不是关于频道的事实，错过一次最多丢一个点。
 
-界面层把“同事在工作”变得可看。`app/src/components/computer/live-screen.tsx` 展示 Bot 的实时屏幕，`take-the-wheel.tsx` 允许人接管，`needs-you.tsx` 把需要人决定的事集中起来。频道侧 `app/src/components/channels/tool-boundary.tsx` 和 `tool-activity.tsx` 把工具调用画进对话流，用户看到的不是一段散文，而是带状态的组件。审计表格在 `app/src/components/audit/audit-table.tsx`，每条记录对应一次被决策过的动作。部署上，根 `package.json` 把各 workspace 设为私有，Docker Compose 拉起 PostgreSQL 和各个 Bot，数据留在自己的库里，上手需要 Docker、Bun 1.4+、一个 CopilotKit Intelligence 项目和一把模型 key。
+数据落在 `server/src/db/schema/computer.ts` 里。策略表的主键是一个常量，构造上只允许一行，因为“哪条策略在生效”这个问题不该存在。快照表按电脑一行、每次快照覆盖，并带上电脑自己打的代号和会话标识，这样来自旧页面的 ref 不会解析到新页面上恰好同名的元素。页面截图按轮次存，一轮只写一次、永不更新，因为对话是记录，记录不该改主意——早先按页面存，两次访问同一地址会互相覆盖，历史回答下面的图会变成后来那张。值得借鉴的地方不在于某个单点，而在于把治理做进了调用路径：ref 对调用方不透明，deny 先于 allow，审计先写再执行，电脑地址每次现问。这些选择单独看都很朴素，合在一起才让“把工具交给模型”和“敢让模型碰真实系统”之间那条线变得可以画出来。项目本身是 MIT 的模板而非托管产品，克隆下来替换 `examples/` 下的租户包，就能把示例同事换成自己公司的那些。
 
-## 5. ziwei-doushu：基于倪海厦《天纪》体系的紫微斗数排盘引擎，含四化、格局与古籍原文
+## 5. ziwei-doushu
 
-[Renhuai123/ziwei-doushu](https://github.com/Renhuai123/ziwei-doushu) · TypeScript · ★ 10,931 · 今日 +1,146 · MIT
+> 用 TypeScript 把紫微斗数排盘算清楚，从真太阳时到十二宫星曜与四化
 
-打开项目首页，填好出生年月日时和性别，点下排盘，十四主星与四化就落在十二宫里。这套流程背后是 `lib/ziwei/algorithm.ts` 在做实际的推演：它调用 `iztro` 的 `astro` 生成基础盘，再用 `lunar-javascript` 处理农历与节气四柱，最后把宫位、星曜、亮度和四化整理成 `ZiweiChart`。对于想自己搭一个排盘工具的人来说，这个仓库把算法层完整地开源了出来，而不是只给一个黑盒接口。
+[Renhuai123/ziwei-doushu](https://github.com/Renhuai123/ziwei-doushu) · `TypeScript` · **10,931** stars · 今日 **+1,146** · `MIT`
 
-排盘的第一步是处理时间。出生地不同，真太阳时就不一样，`components/BirthForm.tsx` 里的 `calcTrueSolarBranch` 用经度差 `(longitude - 120) * 4` 把钟表时间换算成时辰支，表单里选完省市会实时显示“真太阳时 → 某时”。中国 1986 到 1991 年实行过夏令时，`lib/ziwei/dst-cn.ts` 里的 `chinaDSTSpan(year)` 能查某年的起止，但它只判定、不自动扣除；`lib/ziwei/clock-adjust.ts` 负责把钟表读数换成标准时间，跨日的情况留给调用方处理。这种把“判断”和“改写”拆开的做法，在需要保留原始输入的场景里很实用。
+打开一个排盘页面，填上出生年月日、时辰、性别和出生地，几秒后得到十二宫星曜、四化标记和格局判断。这套流程背后是 Renhuai123/ziwei-doushu 的排盘引擎：它基于倪海厦《天纪》体系，把传统排盘规则写成 TypeScript 模块，输入出生信息，输出结构化的命盘数据。项目同时附带格局知识库和古籍原文数据，排盘算法与古籍数据都开放，解读断语库则不在开源范围。
 
-时间确定之后，农历公历互转交给 `lib/ziwei/lunar-solar.ts`，闰月边界做了 clamp。`algorithm.ts` 里的 `resolveEffectiveLunarDate` 支持 `split`、`next-month`、`prev-month`、`origin-month` 四种闰月策略，默认走 `prev-month`。节气四柱用 `getEightChar()` 精确到立春时刻，非节气四柱则按农历年、农历月重算，两套口径分开输出，避免立春当天凌晨出生的人被算进下一年。
+排盘首先要处理时间。用户填的是钟表读数，但紫微斗数排盘用的是地方真太阳时。`lib/ziwei/true-solar-time.ts` 把经度差和均时差合起来算：经度修正按出生地经度与时区中央经线之差乘以 4 分钟，均时差用 NOAA 的 fractional-year 近似式。海外出生地可以传 `utcOffsetMinutes`，中央经线随之变化；国内不传则按东八区 120° 处理，结果逐位不变。算出来的分钟数再映射成十二时辰，子时跨日的情况交给 `resolveZiweiDayOffset` 决定排盘日是否顺延。
+
+时间确定后，农历转换是下一步。`lib/ziwei/lunar-solar.ts` 只做历法换算，不掺命理逻辑。闰月用负月份表示，闰五月就是 -5；某年有没有闰月、某月有几天，一律查 `LunarMonth` 表，不用公历月长去猜。输入非法时返回 null，不会静默滚动到相邻日期——排到一张错盘比报错更麻烦。这个模块被单独抽出来，是因为原生 App 需要一次 HTTP 请求拿到公历日期，换算口径统一收在这里，避免表单层和接口层各写一套闰月规则。
 
 ![Renhuai123/ziwei-doushu 代码结构](./images/github-daily-2026-10-30/05-ziwei-doushu-architecture.png)
 
-起盘的核心在 `generateChart`，它输出的是宫位、星曜、亮度和四化这些结构化数据。亮度默认取《斗数全书》，`algorithm.ts` 里有一张 `DEFAULT_BRIGHTNESS` 表，按寅起索引逐宫列出十四主星和辅星的庙旺利陷；想换流派可以调 `setBrightnessSchool('QS' | 'XD1' | 'ZZ' | 'XD2')`，`school-data.ts` 和 `school-tables.generated.ts` 存着对照表。四化单独放在 `lib/ziwei/sihua.ts`，不会发生的四化组合在数据层面就被排除了。
+核心排盘在 `lib/ziwei/algorithm.ts`。它调用 iztro 完成安星，但做了大量口径修正。换年规则从立春换年改为正月初一换年，与主流排盘软件对齐；星曜亮度表按《紫微斗数全书》逐宫覆写，注释里记着每一处修正的依据和日期。天魁天钺在辛年按默认派 KY1 对调，大耗、截空、副截、旬空这些杂曜也有专门的修正函数，比如 `applySchoolJiekong` 处理阴干年截空与副截的换宫并重算亮度。
 
-格局识别由 `lib/ziwei/patterns.ts` 完成，紫府同宫、杀破狼、机月同梁这些经典组合会被自动检出，辅弼夹命、日月夹命这类特殊结构也有对应判断。十二神煞在 `lib/ziwei/shier-shen.ts`，运限上下文（含童限）在 `lib/ziwei/yunxian-context.ts`。这些模块彼此独立，想只取排盘结果、不要格局分析，完全可以只调 `generateChart`。
+四化系统独立在 `lib/ziwei/sihua.ts`。`getSiHuaByStem` 按天干索引取出禄权科忌四星，`getDaXianSiHua` 取大限宫干、`getLiuNianSiHua` 取流年干，流月用五虎遁、流日取农历日柱干、流时用五鼠遁。闰月后半月的流月归属由 `getEffectiveLiuYueMonth` 决定，跨年时用 `nextYearStem`。模块还提供 `detectSelfSihua` 检测宫干自化，`findIncomingPalaces` 追溯来因宫，多层四化通过 `buildOverlayForStar` 合成展示。
 
-古籍部分走的是另一条路。`lib/classics/index.ts` 把《骨髓赋》《紫微斗数全书》《紫微斗数全集》打包成静态 JSON，`ALL_BOOKS` 是入口，`searchClassics(query, limit)` 做子字符串匹配，命中后截取前后各 40 字做上下文，用 `<mark>` 标出关键词。没有数据库、没有网络请求，适合在服务端渲染时直接调用。`getParagraphById` 可以按段落 id 反查所属书和章节，做引证跳转很方便。
+命盘数据齐了，格局识别在 `lib/ziwei/patterns.ts`。每个格局按“必须、加分、破格”三层条件判断，比如君臣庆会要求紫微入命且左辅右弼同会三方四正，再会昌曲或魁钺算加分，地空地劫双夹会照则破格。火贪格、铃贪格检查贪狼与火铃是否同宫或三方会照，武贪格要求武曲贪狼同宫或对拱。每个识别器都带古籍出处字段，描述文本直接写在函数里，输出的是结构化 Pattern 对象。
 
-倪海厦的教学内容集中在 `lib/nihai/` 下。`index.ts` 统一导出天纪、地纪、人纪三块，`tianji.ts` 里有 `TIANJI_QUOTES` 和 `TIANJI_STATS`，`renji.ts` 收录了针灸经验、汉唐方和经典配方，`diji.ts` 是未完成的地理志部分。`NI_HAIXIA_BIO` 把生平、师承、著作体系整理成结构化对象，`SANJI_CATEGORIES` 则给前端导航用。这些数据是静态的，适合做知识库页面或检索。
+类型契约集中在 `lib/ziwei/types.ts`。`BirthInfo` 里 `hour` 是时辰地支索引 0 到 11，不是钟点；`origInput` 保留用户原始输入，方便页面提示“已按子时换日归到次日”。`ZiweiChart` 包含十二宫、大限、五行局、命主身主等字段，`Palace` 记录宫干、星曜、自化标记和空宫借星信息。读其他模块之前先看这个文件，数据形状一目了然。
 
-前端是 Next.js App Router 结构。`components/ChartBoard.tsx` 用 4×4 网格摆十二宫，`BRANCH_GRID_POS` 把地支映射到行列，中央区域显示命宫、身宫、五行局和当前大限。点选宫位时，`getSanFangSiZheng` 算出本宫、对宫和两个三合宫，再用 SVG 虚线画出三方四正。`TimeNav` 负责本命、大限、流年三种视图切换，`buildSiHuaOverlay` 按当前大限或流年的天干叠加四化标记。回归测试放在 `scripts/regression/` 下，`npm test` 一条命令跑完十条用例，覆盖夏令时、立春边界、时辰索引、双四化同宫这些容易出错的点。
+解读层在 `lib/ziwei/db-analysis.ts`，开源版只保留主题标签和宫位映射，`STAR_DB` 置空，知识库详情页因此生成零条静态路由，但列表框架仍可运行。排盘内核、四化、格局和古籍原文完全开放，断语内容库属于线上核心资产。这种切分让引擎可以独立使用：拿到 `ZiweiChart` 之后，接自己的解读数据或直接展示盘面都行。
 
-这五个项目放在一起看，有意思的地方在于它们都不太相信“模型自己会处理好”。记忆要压缩和检索，bot 要隔离，界面要规则兜底，计算机操作要过网关，排盘要自己算星曜和四化。模型负责理解和生成，剩下的边界、状态与可追溯性，仍然得靠代码来兜。如果你正在给代理加长期上下文、做多 bot 协作，或者只是想找一个结构清晰的排盘实现，这几个仓库都值得翻一翻源码。
+这五个项目放在一起看，能发现一个共同点：它们都在把模糊的指令拆成可执行、可检查的步骤。claude-mem 把会话拆成观察和摘要，Impeccable 把“好看点”拆成设计命令和规则，OpenBot 把工具调用拆成裁决、执行、审计，ziwei-doushu 把排盘拆成真太阳时、十二宫和四化。OpenMausBot 则把 bot 拆成引擎、记忆和计算机。源码都在，读一读内部模块怎样配合，比看介绍更有收获。
